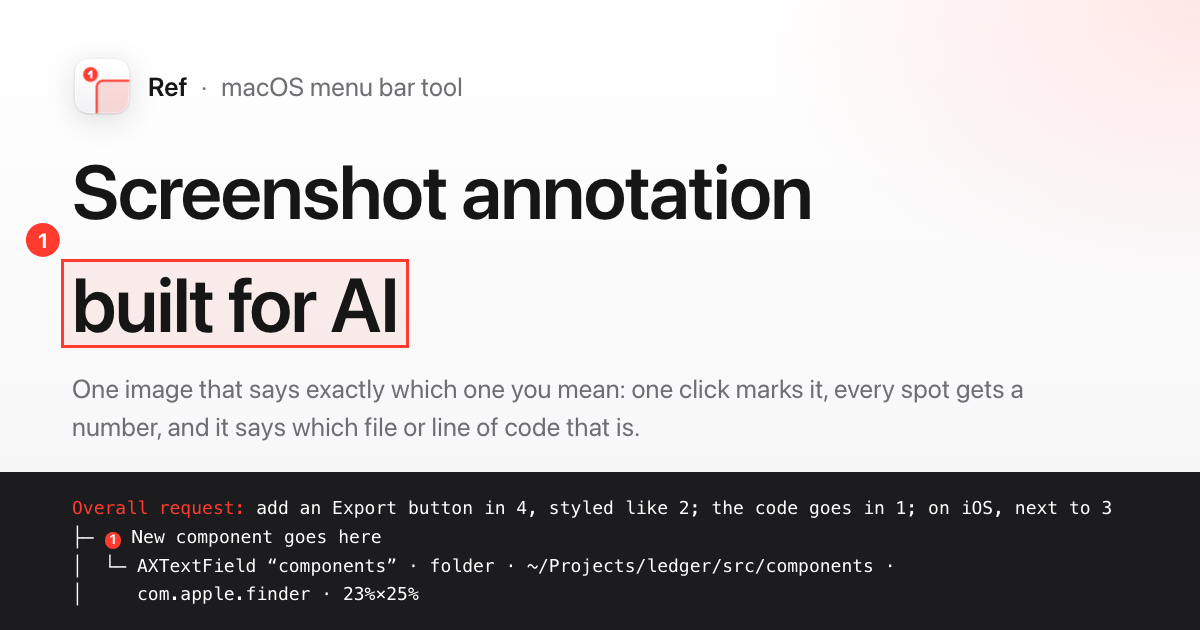
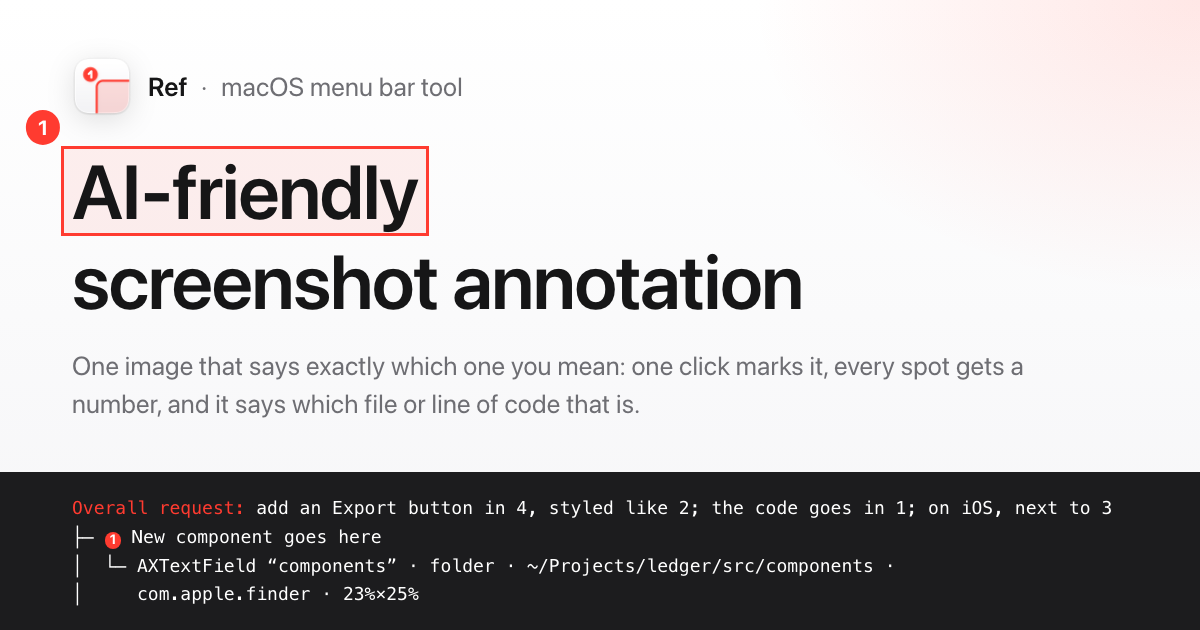
site: 0e5a04a41aa9 (push)

Changed region(s): [[0.0, 0.181, 0.8633, 0.6937]]

diff --git a/en/index.html b/en/index.html
@@ -3,8 +3,8 @@
 <head>
 <meta charset="utf-8">
 <meta name="viewport" content="width=device-width, initial-scale=1, viewport-fit=cover">
-<title>Ref — Screenshot annotation built for AI · macOS</title>
-<meta name="description" content="Screenshot annotation built for AI, in the macOS menu bar. Faster: smart selection, picked in one click. More precise: numbered automatically, with the page, your notes and the extra details linked to the numbers. Paste it into Cursor, ChatGPT or Claude.">
+<title>Ref — AI-friendly screenshot annotation · macOS</title>
+<meta name="description" content="AI-friendly screenshot annotation, in the macOS menu bar. Faster: smart selection, picked in one click. More precise: numbered automatically, with the page, your notes and the extra details linked to the numbers. Paste it into Cursor, ChatGPT or Claude.">
 <meta name="color-scheme" content="light dark">
 <meta name="theme-color" media="(prefers-color-scheme: light)" content="#ffffff">
 <meta name="theme-color" media="(prefers-color-scheme: dark)" content="#161617">
@@ -20,7 +20,7 @@
 <meta property="og:site_name" content="Ref">
 <meta property="og:locale" content="en_US">
 <meta property="og:locale:alternate" content="zh_CN">
-<meta property="og:title" content="Ref — Screenshot annotation built for AI">
+<meta property="og:title" content="Ref — AI-friendly screenshot annotation">
 <meta property="og:description" content="Faster: smart selection, picked in one click. More precise: numbered automatically, with the page, your notes and the extra details linked to the numbers. Paste it into Cursor, ChatGPT or Claude.">
 <meta property="og:url" content="https://ref.suixinapp.com/en/">
 <meta property="og:image" content="https://ref.suixinapp.com/assets/img/og-en.png">
@@ -28,7 +28,7 @@
 <meta property="og:image:height" content="630">
 <meta property="og:image:alt" content="Ref: numbered marks on a screenshot and the legend band underneath">
 <meta name="twitter:card" content="summary_large_image">
-<meta name="twitter:title" content="Ref — Screenshot annotation built for AI">
+<meta name="twitter:title" content="Ref — AI-friendly screenshot annotation">
 <meta name="twitter:description" content="Smart selection, one click to pick; auto-numbered, with the page, your notes and extra details linked. Paste it into Cursor, ChatGPT or Claude.">
 <meta name="twitter:image" content="https://ref.suixinapp.com/assets/img/og-en.png">
 
@@ -48,7 +48,7 @@
   "name": "Ref",
   "operatingSystem": "macOS 26",
   "applicationCategory": "UtilitiesApplication",
-  "description": "Screenshot annotation built for AI, in the macOS menu bar. Press a hotkey and click what you mean: Ref snaps to the element, numbers it, and writes your request together with its path and links into one image on the clipboard.",
+  "description": "AI-friendly screenshot annotation, in the macOS menu bar. Press a hotkey and click what you mean: Ref snaps to the element, numbers it, and writes your request together with its path and links into one image on the clipboard.",
   "softwareVersion": "0.3.18",
   "downloadUrl": "https://github.com/ddhjy/ref-releases/releases/latest",
   "releaseNotes": "https://github.com/ddhjy/ref-releases/releases",
@@ -89,7 +89,7 @@
 <!-- ========== Hero ========== -->
 <section class="hero" aria-labelledby="hero-title">
   <div class="container hero-copy">
-    <h1 id="hero-title">Screenshot annotation <span class="mark">built for AI<b class="badge" aria-hidden="true"></b></span></h1>
+    <h1 id="hero-title"><span class="mark">AI-friendly<b class="badge" aria-hidden="true"></b></span> <span class="nowrap">screenshot annotation</span></h1>
     <ul class="lede-2">
       <li><a href="#faster"><b>Faster</b><span>Smart selection, one click to pick</span></a></li>
       <li><a href="#precise"><b>More precise</b><span>Auto-numbered; page, notes, extra details linked</span></a></li>
@@ -104,7 +104,7 @@
         <div class="mbar">
           <span class="mbar-apple"></span>
           <b>Safari</b><span>File</span><span>Edit</span><span>View</span><span>History</span><span>Bookmarks</span><span>Window</span><span>Help</span>
-          <span class="mbar-right"><i class="mbar-ref"></i><i class="mbar-glyph"></i><i class="mbar-glyph"></i><i class="mbar-glyph wide"></i><span>Tue Oct 7  3:55 PM</span></span>
+          <span class="mbar-right"><i class="mbar-ref"></i><i class="mbar-glyph"></i><i class="mbar-glyph"></i><i class="mbar-glyph wide"></i><span>Mon Oct 26  10:00 AM</span></span>
         </div>
 
         <div class="win win-finder">
@@ -123,9 +123,9 @@
             </aside>
             <div class="finder-list">
               <div class="finder-head"><span>Name</span><span>Date Modified</span><span>Size</span></div>
-              <div class="row"><em class="tri open"></em><i class="ico folder"></i><span>src</span><span>Today, 3:40 PM</span><span>--</span></div>
+              <div class="row"><em class="tri open"></em><i class="ico folder"></i><span>src</span><span>Today, 9:40 AM</span><span>--</span></div>
               <div class="row deep"><em class="tri"></em><i class="ico folder"></i><span>api</span><span>Yesterday, 10:14 PM</span><span>--</span></div>
-              <div class="row deep" data-mark="1"><em class="tri"></em><i class="ico folder"></i><span>components</span><span>Today, 3:40 PM</span><span>--</span></div>
+              <div class="row deep" data-mark="1"><em class="tri"></em><i class="ico folder"></i><span>components</span><span>Today, 9:40 AM</span><span>--</span></div>
               <div class="row deep"><em class="tri"></em><i class="ico folder"></i><span>hooks</span><span>Oct 3</span><span>--</span></div>
               <div class="row deep"><em class="tri"></em><i class="ico folder"></i><span>pages</span><span>Today, 9:12 AM</span><span>--</span></div>
               <div class="row deep"><em class="tri"></em><i class="ico folder"></i><span>styles</span><span>Sep 30</span><span>--</span></div>
@@ -172,7 +172,7 @@
             <span class="sim-name"><b>iPhone 17 Pro</b><small>iOS 26.0</small></span>
           </div>
           <div class="phone">
-            <div class="phone-status"><b>3:55</b><span><i></i><i></i><i class="wide"></i></span></div>
+            <div class="phone-status"><b>10:00</b><span><i></i><i></i><i class="wide"></i></span></div>
             <div class="phone-nav"><b>Invoices</b><span class="phone-btn" data-mark="3">New</span></div>
             <div class="phone-sub">24 this month · $128,400 outstanding</div>
             <div class="phone-list">
@@ -217,7 +217,7 @@
 <span class="ll" data-n="6">└─ <i class="lb" data-n="6">⑥</i> Label: Export CSV
 <s>   └─ text · 76%×78%</s></span>
 <span class="ll sig" data-n="7">page · http://localhost:3100/invoices
-Ref · 2880×1800 px · com.apple.Safari “Invoices — Ledger” · 2026-10-07 15:55</span></pre>
+Ref · 2880×1800 px · com.apple.Safari “Invoices — Ledger” · 2026-10-26 10:00</span></pre>
       <!-- Notes on the picture, not part of it: the caption says the same in words. -->
       <ul class="demo-guides" aria-hidden="true">
         <li class="dg dg-num" style="--x:27.4cqw;--from:17cqw;--line:4"><span>Number</span><i></i>Same <b>2</b> as on the image</li>

diff --git a/index.html b/index.html
@@ -3,8 +3,8 @@
 <head>
 <meta charset="utf-8">
 <meta name="viewport" content="width=device-width, initial-scale=1, viewport-fit=cover">
-<title>Ref — 给 AI 看的截图标注工具 · macOS</title>
-<meta name="description" content="给 AI 看的截图标注工具，住在 macOS 菜单栏里。更快：智能选框，一键选中。更准：自动编号，页面、提示、补充信息自动关联。粘贴给 Cursor、ChatGPT、Claude 就行。">
+<title>Ref — AI 友好的截图标注工具 · macOS</title>
+<meta name="description" content="AI 友好的截图标注工具，住在 macOS 菜单栏里。更快：智能选框，一键选中。更准：自动编号，页面、提示、补充信息自动关联。粘贴给 Cursor、ChatGPT、Claude 就行。">
 <meta name="color-scheme" content="light dark">
 <meta name="theme-color" media="(prefers-color-scheme: light)" content="#ffffff">
 <meta name="theme-color" media="(prefers-color-scheme: dark)" content="#161617">
@@ -20,7 +20,7 @@
 <meta property="og:site_name" content="Ref">
 <meta property="og:locale" content="zh_CN">
 <meta property="og:locale:alternate" content="en_US">
-<meta property="og:title" content="Ref — 给 AI 看的截图标注工具">
+<meta property="og:title" content="Ref — AI 友好的截图标注工具">
 <meta property="og:description" content="更快：智能选框，一键选中。更准：自动编号，页面、提示、补充信息自动关联。粘贴给 Cursor、ChatGPT、Claude 就行。">
 <meta property="og:url" content="https://ref.suixinapp.com/">
 <meta property="og:image" content="https://ref.suixinapp.com/assets/img/og.png">
@@ -28,7 +28,7 @@
 <meta property="og:image:height" content="630">
 <meta property="og:image:alt" content="Ref：截图上的编号标记和底部的标注说明">
 <meta name="twitter:card" content="summary_large_image">
-<meta name="twitter:title" content="Ref — 给 AI 看的截图标注工具">
+<meta name="twitter:title" content="Ref — AI 友好的截图标注工具">
 <meta name="twitter:description" content="智能选框，一键选中；自动编号，页面、提示、补充信息自动关联。粘贴给 Cursor、ChatGPT、Claude 就行。">
 <meta name="twitter:image" content="https://ref.suixinapp.com/assets/img/og.png">
 
@@ -48,7 +48,7 @@
   "name": "Ref",
   "operatingSystem": "macOS 26",
   "applicationCategory": "UtilitiesApplication",
-  "description": "给 AI 看的截图标注工具，住在 macOS 菜单栏里。按热键，点一下你想说的东西：Ref 自动贴住元素并编号，把你的要求、元素的路径和链接一起写进图里，放进剪贴板。",
+  "description": "AI 友好的截图标注工具，住在 macOS 菜单栏里。按热键，点一下你想说的东西：Ref 自动贴住元素并编号，把你的要求、元素的路径和链接一起写进图里，放进剪贴板。",
   "softwareVersion": "0.3.18",
   "downloadUrl": "https://github.com/ddhjy/ref-releases/releases/latest",
   "releaseNotes": "https://github.com/ddhjy/ref-releases/releases",
@@ -89,7 +89,7 @@
 <!-- ========== Hero ========== -->
 <section class="hero" aria-labelledby="hero-title">
   <div class="container hero-copy">
-    <h1 id="hero-title"><span class="mark">给 AI 看的<b class="badge" aria-hidden="true"></b></span><span class="nowrap">截图标注工具</span></h1>
+    <h1 id="hero-title"><span class="mark">AI 友好的<b class="badge" aria-hidden="true"></b></span><span class="nowrap">截图标注工具</span></h1>
     <ul class="lede-2">
       <li><a href="#faster"><b>更快</b><span>智能选框，一键选中</span></a></li>
       <li><a href="#precise"><b>更准</b><span>自动编号，页面、提示、补充信息自动关联</span></a></li>
@@ -104,7 +104,7 @@
         <div class="mbar">
           <span class="mbar-apple"></span>
           <b>Safari</b><span>文件</span><span>编辑</span><span>显示</span><span>历史记录</span><span>书签</span><span>窗口</span><span>帮助</span>
-          <span class="mbar-right"><i class="mbar-ref"></i><i class="mbar-glyph"></i><i class="mbar-glyph"></i><i class="mbar-glyph wide"></i><span>10月7日 周二 15:55</span></span>
+          <span class="mbar-right"><i class="mbar-ref"></i><i class="mbar-glyph"></i><i class="mbar-glyph"></i><i class="mbar-glyph wide"></i><span>10月26日 周一 10:00</span></span>
         </div>
 
         <div class="win win-finder">
@@ -123,9 +123,9 @@
             </aside>
             <div class="finder-list">
               <div class="finder-head"><span>名称</span><span>修改日期</span><span>大小</span></div>
-              <div class="row"><em class="tri open"></em><i class="ico folder"></i><span>src</span><span>今天 15:40</span><span>--</span></div>
+              <div class="row"><em class="tri open"></em><i class="ico folder"></i><span>src</span><span>今天 09:40</span><span>--</span></div>
               <div class="row deep"><em class="tri"></em><i class="ico folder"></i><span>api</span><span>昨天 22:14</span><span>--</span></div>
-              <div class="row deep" data-mark="1"><em class="tri"></em><i class="ico folder"></i><span>components</span><span>今天 15:40</span><span>--</span></div>
+              <div class="row deep" data-mark="1"><em class="tri"></em><i class="ico folder"></i><span>components</span><span>今天 09:40</span><span>--</span></div>
               <div class="row deep"><em class="tri"></em><i class="ico folder"></i><span>hooks</span><span>10月3日</span><span>--</span></div>
               <div class="row deep"><em class="tri"></em><i class="ico folder"></i><span>pages</span><span>今天 09:12</span><span>--</span></div>
               <div class="row deep"><em class="tri"></em><i class="ico folder"></i><span>styles</span><span>9月30日</span><span>--</span></div>
@@ -172,7 +172,7 @@
             <span class="sim-name"><b>iPhone 17 Pro</b><small>iOS 26.0</small></span>
           </div>
           <div class="phone">
-            <div class="phone-status"><b>15:55</b><span><i></i><i></i><i class="wide"></i></span></div>
+            <div class="phone-status"><b>10:00</b><span><i></i><i></i><i class="wide"></i></span></div>
             <div class="phone-nav"><b>发票</b><span class="phone-btn" data-mark="3">新建</span></div>
             <div class="phone-sub">本月 24 张 · 待收 ¥128,400</div>
             <div class="phone-list">
@@ -217,7 +217,7 @@
 <span class="ll" data-n="6">└─ <i class="lb" data-n="6">⑥</i> 文案：导出 CSV
 <s>   └─ 文字 · 77%×78%</s></span>
 <span class="ll sig" data-n="7">页面 · http://localhost:3100/invoices
-Ref · 2880×1800 px · com.apple.Safari “发票 — Ledger” · 2026-10-07 15:55</span></pre>
+Ref · 2880×1800 px · com.apple.Safari “发票 — Ledger” · 2026-10-26 10:00</span></pre>
       <!-- Notes on the picture, not part of it: the caption says the same in words. -->
       <ul class="demo-guides" aria-hidden="true">
         <li class="dg dg-num" style="--x:26.5cqw;--from:13cqw;--line:4"><span>编号</span><i></i>和图上的 <b>2</b> 是同一处</li>

diff --git a/assets/site.css b/assets/site.css
@@ -44,7 +44,9 @@
   --r: 12px;
   --r-lg: 20px;
   --w: 1200px;
-  --w-wide: 1280px;
+  /* The hero's picture keeps the page's own edges: the header above it and every section below
+     line up with it. */
+  --w-wide: var(--w);
   --gutter: 24px;
   --section: 112px;
 }
@@ -252,9 +254,6 @@ p code, td code, li code, h3 code { padding: 0.1em 0.4em; border-radius: 5px; ba
 }
 /* The number is drawn, not written: as text it would read as part of the headline. */
 .mark .badge::after { content: "1"; }
-/* In English the marked words fall on the second line, where the badge would land on the line
-   above it: the mark keeps the room its badge needs. */
-:lang(en) .hero h1 .mark { margin-top: 0.38em; }
 /* The two things the page is about, each a step down to the section that shows it. */
 .lede-2 { display: flex; flex-wrap: wrap; justify-content: center; gap: 10px; margin-top: 32px; }
 .lede-2 a {
